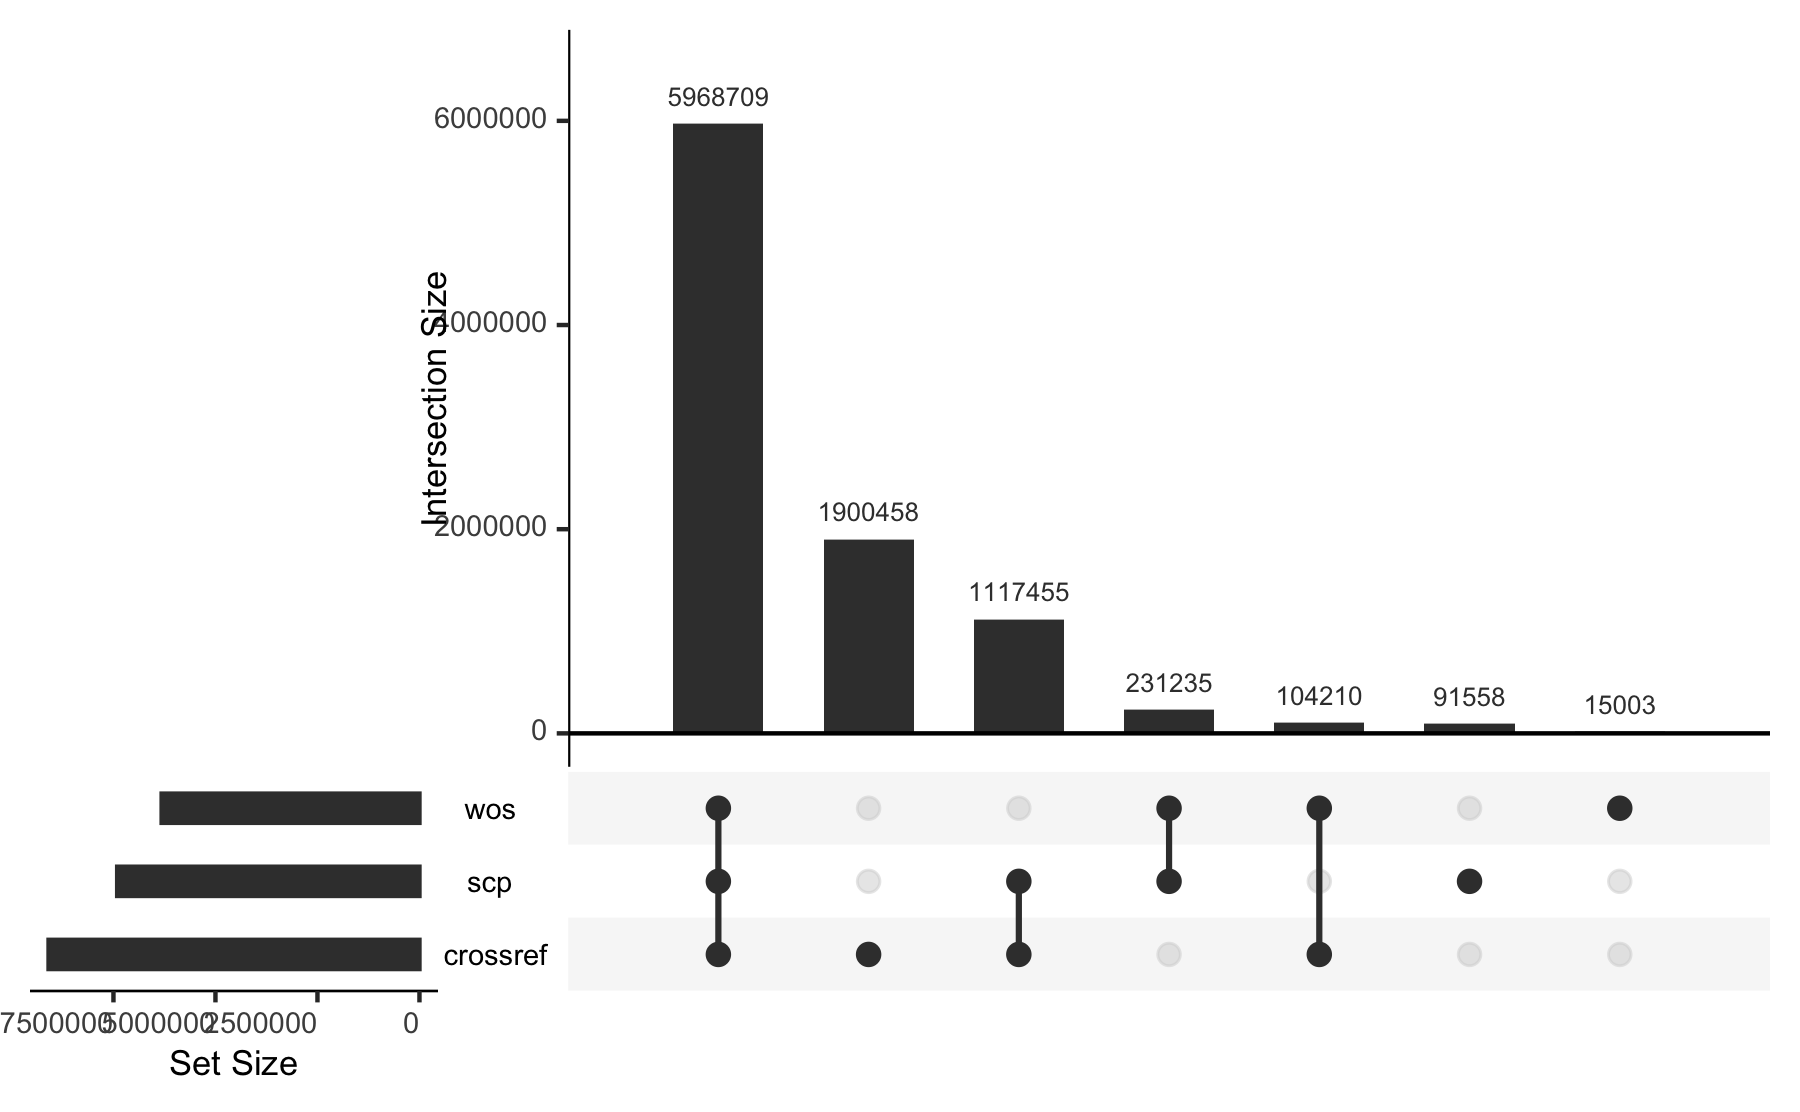
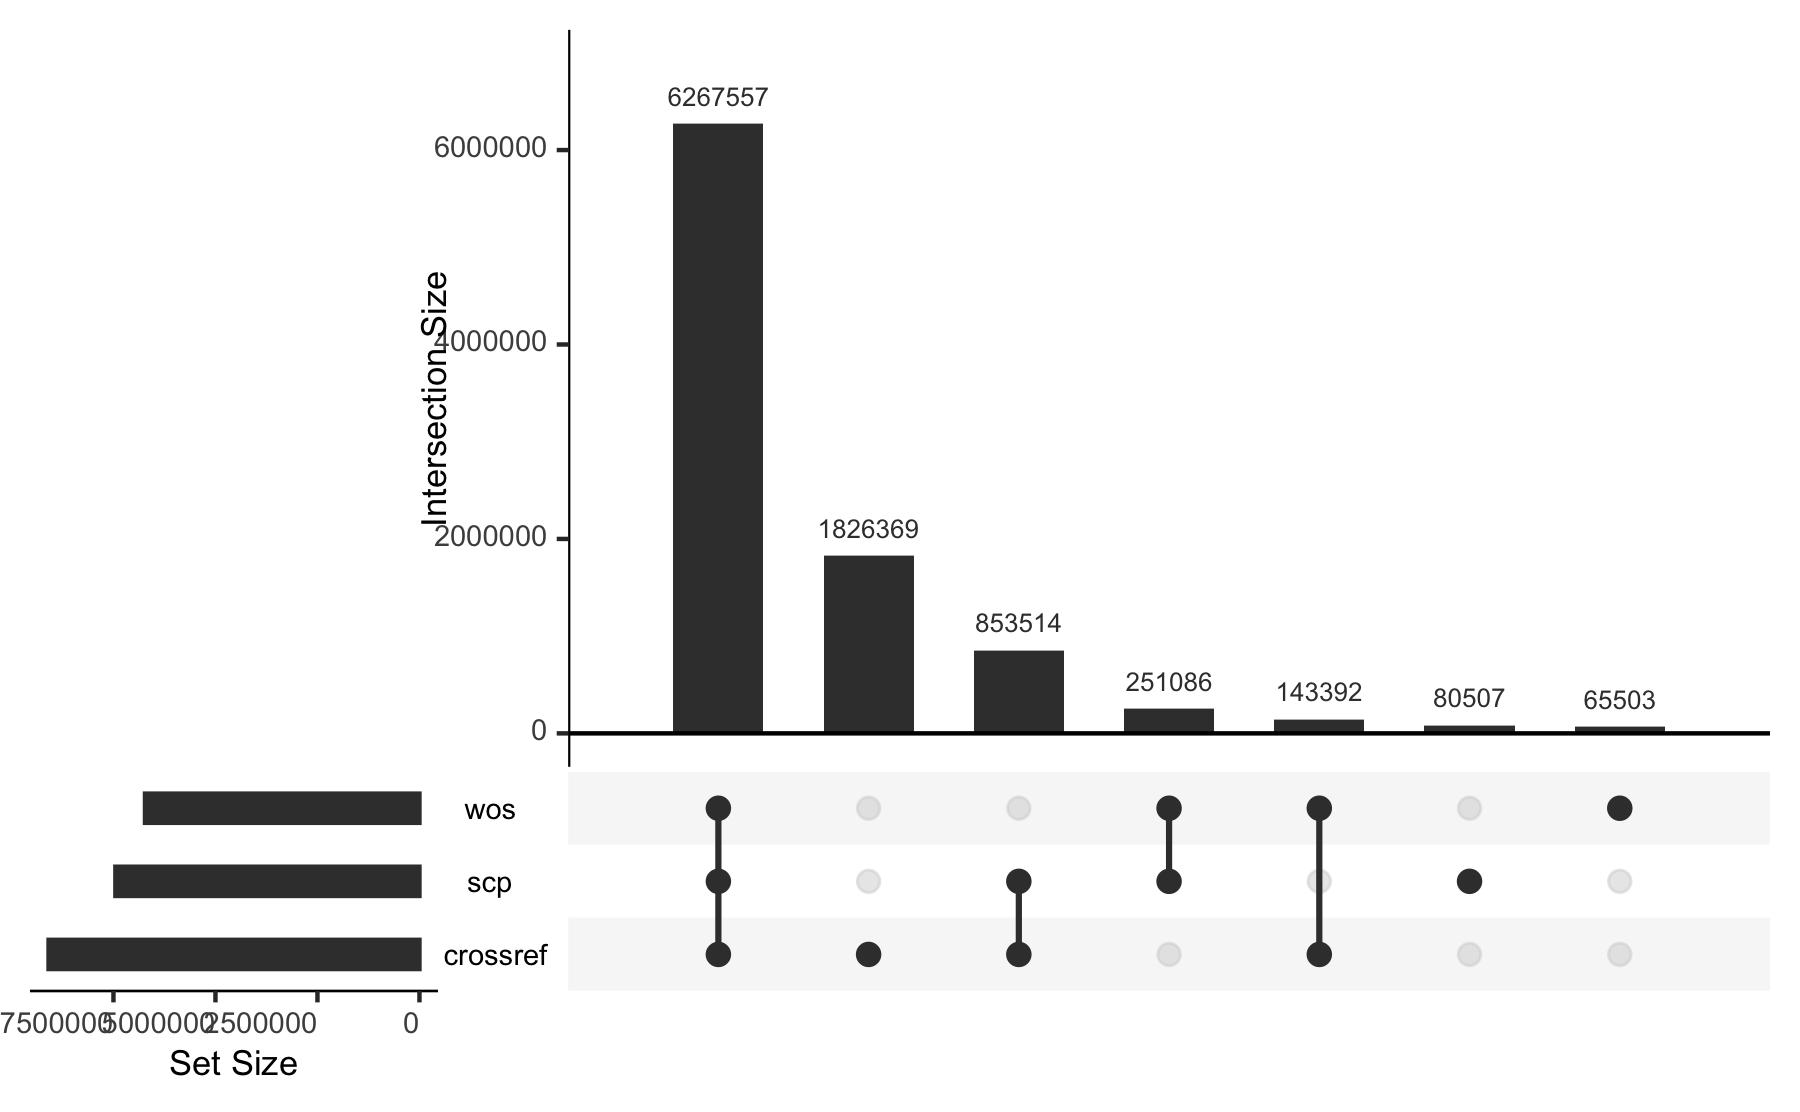
Journal database coverage: Upset by publisher

diff --git a/analysis/results.md b/analysis/results.md
@@ -77,20 +77,23 @@ wos_hybrid_jns <- wos_jct_items_df |>
   filter(!issn_l %in% hoad_oa_excluded$issn_l)
 
 wos_active_jns <- wos_hybrid_jns |>
-  filter(pubyear %in% 2019:2023)
+  # use online first, if available
+  mutate(online_year = lubridate::year(wos_pubdate_online)) |>
+  mutate(pub_year = ifelse(!is.na(online_year), online_year, pubyear)) |>
+  filter(pub_year %in% 2019:2023)
 
 wos_active_jns_with_oa <- wos_active_jns |> 
   filter(oa_status == "hybrid") 
 
 # wos core 
 wos_active_core <- wos_active_jns |>
-  filter(item_type %in% c("Article", "Review"))
+  filter(grepl("Article|^Review$", item_type))
 ```
 
 - Number of hybrid journals: 8,666
 - Number of active hybrid journals between 2019 and 2023: 8,655
 - Number of active hybrid journals with at least one OA between 2019 and
-  2023: 8,235
+  2023: 8,238
 
 Scopus
 
@@ -104,7 +107,9 @@ scp_hybrid_jns <- scp_jct_items_df |>
   filter(!issn_l %in% hoad_oa_excluded$issn_l)
 
 scp_active_jns <- scp_hybrid_jns |>
-  filter(pubyear %in% 2019:2023) 
+   # use online first, if available
+  mutate(pub_year = ifelse(!is.na(first_pubyear), first_pubyear, pubyear)) |>
+  filter(pub_year %in% 2019:2023)
 
 scp_active_jns_with_oa <- scp_active_jns |> 
   filter(grepl("hybrid", oa_status))
@@ -120,12 +125,12 @@ scp_active_core_oa <- scp_active_core |>
 - Number of hybrid journals: 11,905
 - Number of active hybrid journals between 2019 and 2023: 11,875
 - Number of active hybrid journals with at least one OA between 2019 and
-  2023: 11,179
+  2023: 11,180
 
 Core
 
 - Active Journals: 11,865
-- Active journals with OA: 11,159
+- Active journals with OA: 11,160
 
 Journals without Original Articles and Reviews (mostly Proceedings)
 
@@ -183,15 +188,15 @@ wos_active_jns |>
 #>     issn_l items
 #>  1009-1963  1743
 #>  0893-7400   868
-#>  1368-0668   536
+#>  1368-0668   551
 #>  0011-4642   416
-#>  0001-253X   326
+#>  0001-253X   335
 #>  0862-7940   212
 #>  0277-8033    64
 #>  0967-0750    42
 #>  0251-2513    28
 #>  1464-1801    10
-#>      Total  4245
+#>      Total  4269
 ```
 
 (Chinese Physics B seems to have the Chinese Physics ISSN-L in WOS)
@@ -210,19 +215,19 @@ scp_active_jns |>
 #>  0893-7400   875
 #>  1542-5983   615
 #>  0011-4642   419
-#>  0261-0159   348
+#>  0261-0159   357
 #>  1661-819X   340
 #>  1578-1771   335
 #>  1939-8441   261
 #>  0899-1855   236
 #>  0862-7940   213
-#>  0965-7967   154
+#>  0965-7967   155
 #>  2093-761X   143
 #>  0743-4154   124
 #>  2095-4638   124
 #>  0250-1589   102
+#>  1550-1949    79
 #>  0277-8033    78
-#>  1550-1949    78
 #>  0039-3266    74
 #>  0095-2338    59
 #>  1350-7583    53
@@ -235,7 +240,7 @@ scp_active_jns |>
 #>  0163-514X     8
 #>  2376-1407     7
 #>  0163-9269     3
-#>      Total 77095
+#>      Total 77106
 ```
 
 - `0094-243X` represents API Proceedings, all content tagged as
@@ -256,7 +261,7 @@ item_view_df <-  list(
 )
 
 # Plot Journals Five Years Period
-upset(fromList(item_view_df), order.by = "freq")
+UpSetR::upset(UpSetR::fromList(item_view_df), order.by = "freq")
 ```
 
 <img src="results_files/figure-gfm/unnamed-chunk-5-1.png" width="70%" style="display: block; margin: auto;" />
@@ -281,48 +286,142 @@ upset(fromList(jn_list_with_oa), order.by = "freq")
 
 ``` r
 cr_active_upset <- cr_df |>
+  filter(issn_l %in% active_jns$issn_l) |>
   group_by(issn_l) |>
   summarise(n_cr = n_distinct(doi)) |>
-  mutate(crossref = TRUE)
+  mutate(Crossref = TRUE)
 wos_active_upset <- wos_active_core |>
   group_by(issn_l) |>
   summarise(n_wos = n_distinct(item_id)) |>
-  mutate(wos = TRUE)
+  mutate(WoS = TRUE)
 scp_active_upset <- scp_active_core |>
   group_by(issn_l) |>
   summarise(n_scp = n_distinct(item_id)) |>
-  mutate(scopus = TRUE)
+  mutate(Scopus = TRUE)
 
-jn_upset <- dplyr::full_join(cr_active_upset, wos_active_upset, by = "issn_l") |>
+jn_upset_ <- dplyr::full_join(cr_active_upset, wos_active_upset, by = "issn_l") |>
   dplyr::full_join(scp_active_upset, by = "issn_l") |>
-  mutate(across(c(crossref, wos, scopus), ~replace_na(.x, FALSE))) |>
+  mutate(across(c(Crossref, WoS, Scopus), ~replace_na(.x, FALSE))) |>
   # Journal 5-years article volume
   mutate(n = case_when(!is.na(n_cr) ~ n_cr, !is.na(n_scp) ~n_scp, TRUE ~ n_wos))
 
+# add year
+jn_age <- jn_ind |> 
+  mutate(cr_year = as.numeric(as.character(cr_year))) |> 
+  filter(cr_year %in% 2019:2023) |>
+  group_by(issn_l) |>
+  summarise(min_year = min(cr_year),
+            max_year = max(cr_year)) |>
+  mutate(jn_age = max_year - min_year + 1) 
+
+# Add Esac publisher
+
+esac <- hoaddata::jct_hybrid_jns |>
+  distinct(issn_l, esac_publisher) |>
+  mutate(
+    publisher = case_when(
+      esac_publisher == "Elsevier" ~ "Elsevier",
+      esac_publisher == "Springer Nature" ~ "Springer Nature",
+      esac_publisher == "Wiley" ~ "Wiley",
+      is.character(esac_publisher) ~ "Other"
+    )) |>
+  mutate(publisher =
+           forcats::fct_relevel(
+             publisher,
+             c("Elsevier", "Springer Nature", "Wiley", "Other") 
+           )) |>
+  mutate(publisher = forcats::fct_rev(publisher)) |>
+  distinct(issn_l, publisher)
+
 library(ComplexUpset)
+jn_upset <- left_join(jn_upset_, esac, by = "issn_l")
+
+size = get_size_mode('exclusive_intersection')
 
 ComplexUpset::upset(
   jn_upset,
-  c("crossref", "wos", "scopus"),
+  c("Crossref", "WoS", "Scopus"),
+  # Only journals in Crossref
+  min_size = 30,
+  width_ratio = 0.4,
+  stripes = "transparent",
+  name = "Data Source Coverage",
   base_annotations = list(
-    `Journals` = (
-      intersection_size(text_mapping=aes(label=!!upset_text_percentage())) +
-        scale_y_continuous(labels =  scales::number_format(big.mark = ","))
+    "Journals" = (
+      ComplexUpset::intersection_size(
+        counts = TRUE,
+        text = list(size = 9 / .pt),
+        text_mapping = aes(
+          label = paste0(!!upset_text_percentage(), '\n(', !!size, ')'),
+          colour = ifelse(!!size > 5000, 'on_bar', 'on_background'),
+          y = ifelse(!!size > 5000, !!size - 4000, !!size)
+        )
+      ) +
+        scale_y_continuous(labels = scales::number_format(big.mark = ","))
     )
   ),
-  annotations = list(
-    'Article Volume' = (
-      ggplot(jn_upset, aes(x = intersection, y = n)) +
-        geom_boxplot(outliers = FALSE) +
-        scale_y_log10(labels =  scales::number_format(big.mark = ",")) 
-    ),
-    'Article Violine' = (
-      ggplot(jn_upset, aes(x = intersection, y = n)) +
-        geom_col() +
-        scale_y_continuous(labels =  scales::number_format(big.mark = ","))
-    )
-  )
-) 
+  annotations = list("Article Volume" = (
+    ggplot(mapping = aes(x = intersection, y = n, fill = fct_rev(publisher))) +
+      geom_boxplot(outliers = FALSE) +
+              scale_fill_manual(
+        "",
+        values = c(
+          "Elsevier" = "#e9711c",
+          "Springer Nature" = "#486a7e",
+          "Wiley" = "#068853",
+          "Other" = "#b3b3b3a0"
+        ), guide = "none") +
+      scale_y_log10(labels =  scales::number_format(big.mark = ","))),
+    "Publisher" = (
+      ggplot(mapping = aes(fill = publisher)) +
+        geom_bar(stat = "count", position ="fill") + 
+        scale_y_continuous("Publisher Share", labels=scales::percent_format()) +
+        scale_fill_manual(
+        "",
+        values = c(
+          "Elsevier" = "#e9711c",
+          "Springer Nature" = "#486a7e",
+          "Wiley" = "#068853",
+          "Other" = "#b3b3b3a0"
+        ), guide = "none"))), 
+  #,
+  # 'Total article' = (
+  #   ggplot(mapping = aes(x = intersection, y = n)) +
+  #     geom_bar(stat = "identity", color = "grey35", fill = "grey35")) +
+  #  scale_y_continuous(labels =  scales::number_format(big.mark = ",")) ),
+  set_sizes=(
+        upset_set_size(
+          geom = geom_bar(aes(fill = publisher), width = 0.8), 
+          position='right')) +
+          scale_fill_manual("", values = c(
+          "Elsevier" = "#e9711c",
+          "Springer Nature" = "#486a7e",
+          "Wiley" = "#068853",
+          "Other" = "#b3b3b3a0")) +
+    scale_y_continuous(labels = scales::number_format(big.mark = ",")) +
+    guides(fill = guide_legend(reverse = TRUE)) +
+    ylab("Journals"),
+      guides = "over",
+  matrix = (
+        intersection_matrix(
+            geom = geom_point(
+                shape = "square",
+                size=3.5
+            )))
+        ) +
+  patchwork::plot_layout(heights=c(2, 1.5, 2, 1))
 ```
 
 <img src="results_files/figure-gfm/upset_data-1.png" width="70%" style="display: block; margin: auto;" />
+
+What is the age of the journals?
+
+``` r
+jn_age <- jn_ind |> 
+  mutate(cr_year = as.numeric(as.character(cr_year))) |> 
+  filter(cr_year %in% 2019:2023) |>
+  group_by(issn_l) |>
+  summarise(min_year = min(cr_year),
+            max_year = max(cr_year)) |>
+  mutate(jn_age = max_year - min_year + 1) 
+```
